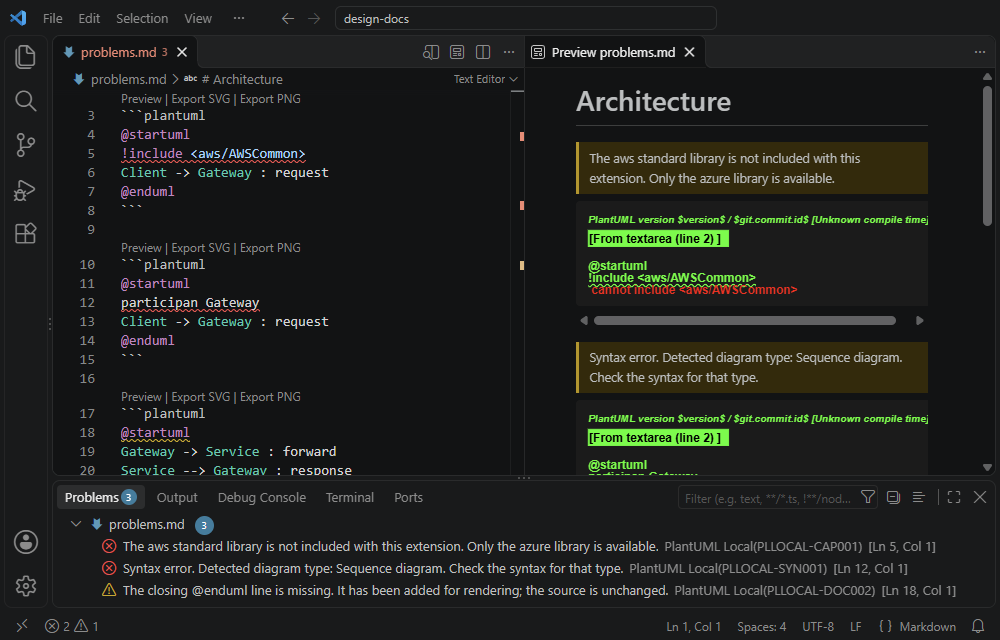
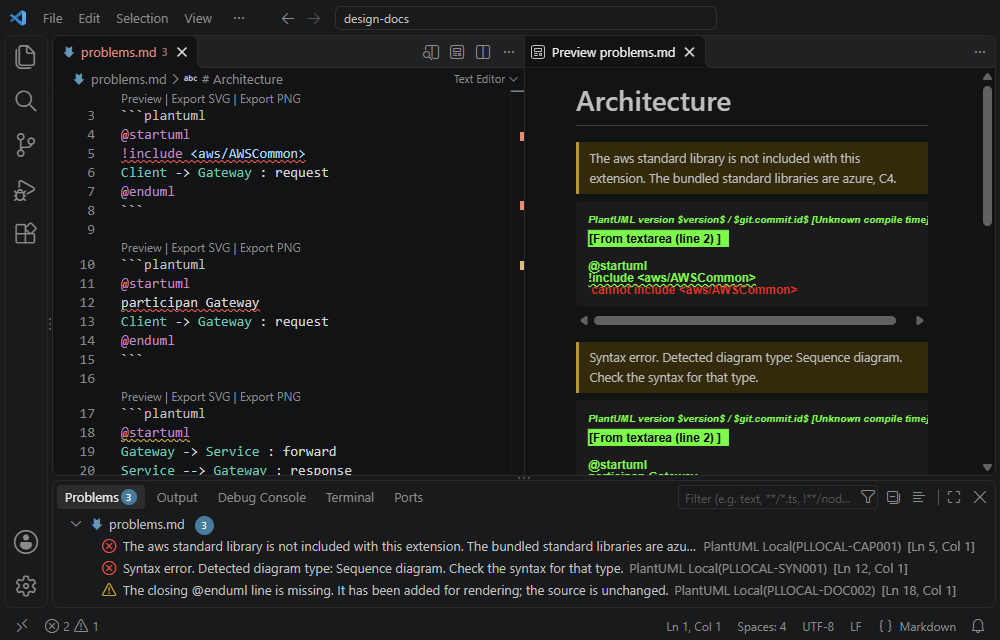
chore(release): 0.17.0
Releases 0.17.0: the C4 library ships with the extension, and an image
the bundled engine does not draw is now said; completion offers the
aliases and the snippets of the diagram at the cursor, and the words it
suggests in a diagram are that diagram's own; the .puml preview zooms to
an area and scrolls to an edge, and tells a screen reader what a drawing
comes to. The .puml preview also gets six fixes: the focus shows on its
pressed Fit button, its view is kept while the panel resizes, a fitted
diagram fits inside it, a drag ends when the button is let go outside
it, its zoom buttons are one stop for Tab, and its buttons keep to the
right when a narrow panel wraps them. A minor version, as features are
added. VS Code's floor stays at 1.138, and no package of the lock moves:
@plantuml/core 1.2026.9, happy-dom 21.0.4, markdown-it 14.3.3 and the
kit 7.1.0, as in 0.16.0. The C4 library, C4-PlantUML 2.14.0 as
PlantUML's standard library carries it, is bundled for the first time;
its notice came with it.

sample.md and sample.puml show what is new: a C4 context diagram, what
the list offers in a diagram, an image the engine draws as text, and
Zoom to Area and the keys to the edges. The README's screenshots of the
.puml preview and of the Problems panel are taken again: the preview's
toolbar has Zoom to Area, and the message for a library that is not
bundled names both bundled libraries.

Changed region(s): [[0.465, 0.8438, 0.961, 0.875], [0.651, 0.25, 0.868, 0.3125]]

diff --git a/sample.md b/sample.md
@@ -236,6 +236,26 @@ fn --> blob
 @enduml
 ```
 
+## C4 model (bundled library, no network)
+
+C4's colours are made for a white page, so in a dark editor a C4 diagram that picks no theme gets the light palette, as the Azure one above does.
+
+```plantuml
+@startuml
+!include <C4/C4_Context>
+
+Person(customer, "Customer", "Buys from the web shop")
+System(shop, "Web shop", "Takes and tracks orders")
+System_Ext(payments, "Payment service", "Charges cards")
+System_Ext(mail, "Mail service", "Sends receipts")
+
+Rel(customer, shop, "Places orders", "HTTPS")
+Rel(shop, payments, "Charges the card", "HTTPS")
+Rel(shop, mail, "Sends the receipt", "SMTP")
+SHOW_LEGEND()
+@enduml
+```
+
 ## Sprite written straight into the diagram
 
 ```plantuml
@@ -299,6 +319,8 @@ stop
 
 In a block, suggestions open on `@` or `!` at the start of a line, on `!theme ` and on `<&`. Outside a block, type `puml` and press `Ctrl+Space` for a whole block from one of sixteen templates, or run *PlantUML Local: Insert Diagram Template*.
 
+Elsewhere in a block, `Ctrl+Space` lists what that diagram holds: its aliases with the names they show — `Shop` with `Web shop` in the block below — and its words. On a line of its own, a sequence diagram such as this one also offers snippets of `alt`, `opt`, `loop`, `par`, `ref` and `note`, and an activity diagram of `if`, `while`, `repeat` and `fork`, with their parts to tab through.
+
 A swatch sits beside each colour a diagram sets, such as the two below; clicking it opens VS Code's colour picker, and the pick is written back as `#RRGGBB`.
 
 ```plantuml
@@ -327,6 +349,14 @@ Alice -> Bob
 ```plantuml
 @startuml
 Alice -> Bob : <math>x^2 + y^2 = z^2</math>
+@enduml
+```
+
+### An image from a file (drawn as text, with a note)
+
+```plantuml
+@startuml
+Alice -> Bob : <img:logo.png> Signed
 @enduml
 ```
 

diff --git a/CHANGELOG.md b/CHANGELOG.md
@@ -7,6 +7,8 @@ and this project adheres to [Semantic Versioning](https://semver.org/spec/v2.0.0
 
 ## [Unreleased]
 
+## [0.17.0] - 2026-10-28
+
 ### Added
 
 - **The C4 library ships with the extension.** `!include <C4/C4_Context>`,
@@ -1043,7 +1045,8 @@ First public release.
 - happy-dom's bundled self-signed TLS certificate (unused fetch machinery) is
   stripped from the worker bundle at build time.
 
-[Unreleased]: https://github.com/kkdev92/plantuml-local/compare/v0.16.0...HEAD
+[Unreleased]: https://github.com/kkdev92/plantuml-local/compare/v0.17.0...HEAD
+[0.17.0]: https://github.com/kkdev92/plantuml-local/compare/v0.16.0...v0.17.0
 [0.16.0]: https://github.com/kkdev92/plantuml-local/compare/v0.15.1...v0.16.0
 [0.15.1]: https://github.com/kkdev92/plantuml-local/compare/v0.15.0...v0.15.1
 [0.15.0]: https://github.com/kkdev92/plantuml-local/compare/v0.14.2...v0.15.0
